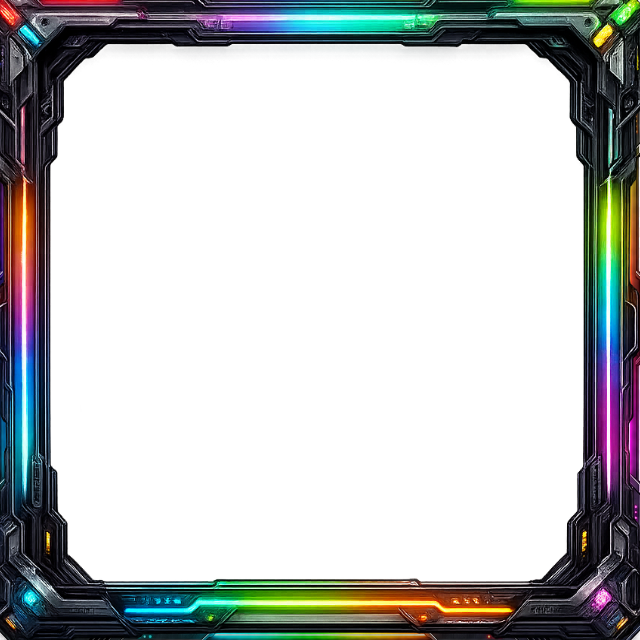
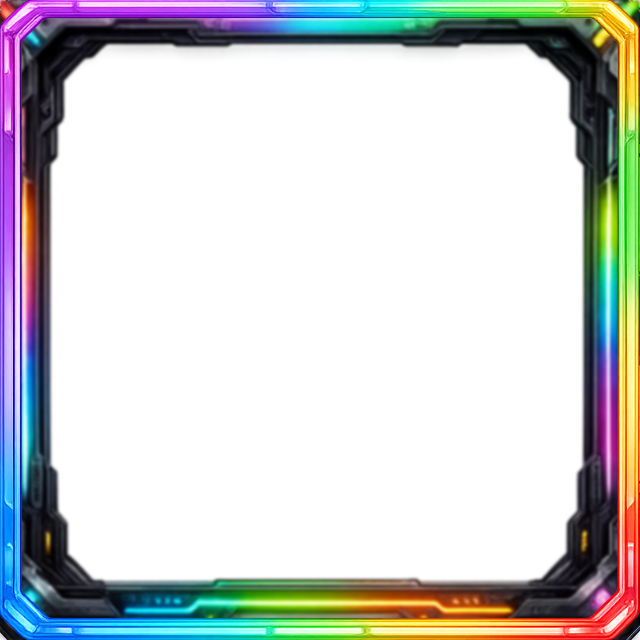
sa

Changed region(s): [[0.0, 0.0, 1.0, 1.0]]

diff --git a/index.html b/index.html
@@ -1127,6 +1127,10 @@
             background-size: 100% 100%;
             color: #fff;
         }
+        #dj-visual-root .btn.dj-sfx.sample-playing {
+            color: #FFD700;
+            text-shadow: 0 0 6px rgba(255, 215, 0, 0.45), 0 0 4px rgba(0,0,0,0.85), 0 0 10px rgba(0,0,0,0.55);
+        }
         /* Deck A indicator: matching Deck B visual is active */
         #dj-visual-root .btn.dj-fx.deck-b-active {
             color: #f5d20f;
@@ -2152,6 +2156,10 @@
             background-position: center;
             background-repeat: no-repeat;
             background-size: 100% 100%;
+        }
+        #mix-effects .btn.sample-playing {
+            color: #FFD700;
+            text-shadow: 0 0 6px rgba(255, 215, 0, 0.45), 0 0 4px rgba(0,0,0,0.85), 0 0 10px rgba(0,0,0,0.55);
         }
         /* BPM scope row */
         #mix-bpm-row {
@@ -11676,8 +11684,23 @@ function stopAllAndShowStart() {
                 try { if (typeof syncDjBeatFxKnobActiveDom === 'function') syncDjBeatFxKnobActiveDom(); } catch (_) {}
             });
         }
+        function attachSamplePlayingIndicator(btn, media) {
+            if (!btn || !media) return;
+            const sync = () => {
+                try {
+                    const playing = !media.paused && !media.ended;
+                    btn.classList.toggle('sample-playing', playing);
+                } catch (_) {}
+            };
+            ['play', 'pause', 'ended'].forEach((ev) => {
+                try { media.addEventListener(ev, sync); } catch (_) {}
+            });
+            sync();
+        }
+
         // --- FIXED FX WAV LISTENER (Lightbulb) ---
         if (fxWav) {
+            attachSamplePlayingIndicator(fxWav, audioElSample);
             fxWav.addEventListener('click', (e) => {
                 e.preventDefault();
                 try { audioElSample.loop = !!sampleLoop; } catch(_) {}
@@ -11693,10 +11716,7 @@ function stopAllAndShowStart() {
                     }
                 } catch(e) { console.warn(e); }
 
-                audioElSample.play().then(()=>{ 
-                    fxWav.classList.add('on'); 
-                    setTimeout(()=>fxWav.classList.remove('on'), 300); 
-                }).catch(()=>{});
+                audioElSample.play().catch(()=>{});
             });
             fxWav.addEventListener('contextmenu', (e) => {
                 e.preventDefault();
@@ -11709,6 +11729,7 @@ function stopAllAndShowStart() {
         // --- FIXED BIND SAMPLE FUNCTION (Wav 1-6) ---
         function bindSample(btn, media, loopFlagKey, sourceKey) {
             if (!btn || !media) return;
+            attachSamplePlayingIndicator(btn, media);
             btn.addEventListener('click', (e) => {
                 e.preventDefault();
                 try { media.loop = !!window[loopFlagKey]; } catch(_) {}
@@ -11724,10 +11745,7 @@ function stopAllAndShowStart() {
                     }
                 } catch(e) { console.warn(e); }
                 
-                media.play().then(()=>{ 
-                    btn.classList.add('on'); 
-                    setTimeout(()=>btn.classList.remove('on'), 300); 
-                }).catch(()=>{});
+                media.play().catch(()=>{});
             });
             btn.addEventListener('contextmenu', (e) => {
                 e.preventDefault();